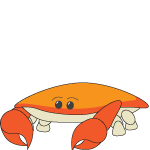
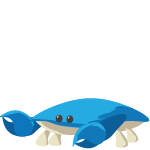
Art updates to monsters

diff --git a/Classes/Core Data/Initialization/DebugDataInitializer.m b/Classes/Core Data/Initialization/DebugDataInitializer.m
@@ -39,7 +39,7 @@
     [MonsterData insertMonsterWithType:@"Crab" barcode:@"No Barcode"];
     [MonsterData insertMonsterWithType:@"Small_Blob" barcode:@"No Barcode"];
     [MonsterData insertMonsterWithType:@"Viper" barcode:@"No Barcode"];
-    [MonsterData insertMonsterWithType:@"Bear_Cub" barcode:@"No Barcode"];
+    [MonsterData insertMonsterWithType:@"Bear" barcode:@"No Barcode"];
     [MonsterData insertMonsterWithType:@"Fox" barcode:@"No Barcode"];
     
     [[CoreDataHelper sharedInstance] save];
@@ -63,6 +63,11 @@
     [[MonsterData anyMonsterWithName:@"Fire Elemental"] assignAbilitiesForLevel:1];
     [[MonsterData anyMonsterWithName:@"Viper"] assignAbilitiesForLevel:1];
     [[MonsterData anyMonsterWithName:@"Hard Shell"] assignAbilitiesForLevel:1];
+    [[MonsterData anyMonsterWithName:@"Firebat"] assignAbilitiesForLevel:1];
+    [[MonsterData anyMonsterWithName:@"Imp"] assignAbilitiesForLevel:1];
+    [[MonsterData anyMonsterWithName:@"Bear"] assignAbilitiesForLevel:1];
+    [[MonsterData anyMonsterWithName:@"Marblu"] assignAbilitiesForLevel:1];
+    [[MonsterData anyMonsterWithName:@"Crab"] assignAbilitiesForLevel:1];
     
     [[CoreDataHelper sharedInstance] save];
 }
@@ -71,14 +76,14 @@
 {
     [PartyData removeAll];
     
-    NSArray *monsters = @[[MonsterData anyMonsterWithName:@"Viper"],
+    NSArray *monsters = @[[MonsterData anyMonsterWithName:@"Firebat"],
                           [MonsterData anyMonsterWithName:@"Fox"],
-                          [MonsterData anyMonsterWithName:@"Hard Shell"]];
+                          [MonsterData anyMonsterWithName:@"Imp"]];
     
     [PartyData insertPartyWithName:@"Player Party" monsters:monsters];
     
-    monsters = @[[MonsterData anyMonsterWithName:@"Ghost"],
-                 [MonsterData anyMonsterWithName:@"Scorpion"],
+    monsters = @[[MonsterData anyMonsterWithName:@"Bear"],
+                 [MonsterData anyMonsterWithName:@"Marblu"],
                  [MonsterData anyMonsterWithName:@"Crab"]];
     
     [PartyData insertPartyWithName:@"AI Party" monsters:monsters];

diff --git a/Classes/Core Data/Initialization/DefaultMonsterDataInitializer.m b/Classes/Core Data/Initialization/DefaultMonsterDataInitializer.m
@@ -272,8 +272,8 @@
     [monster setRoleTypePrimary:RoleTypeHeal];
     [monster setRoleTypeSecondary:RoleTypeBuff];
     
-    //Bear Cub
-    monster = [DefaultMonsterData insertDefaultMonsterAttributesForType:@"Bear_Cub"];
+    //Bear
+    monster = [DefaultMonsterData insertDefaultMonsterAttributesForType:@"Bear"];
     [monster setElementType:ElementTypeEarth];
     [monster setProbability:superRare];
     [monster setAttackType:AttackTypePhysical];
@@ -295,7 +295,7 @@
     [monster setWillpowerLevelMultiplier:1];
     
     [monster setIsTranslucent:NO];
-    [monster setScalePercent:0.75];
+    [monster setScalePercent:0.9];
     [monster setIsFlying:NO];
     [monster setRoleTypePrimary:RoleTypeTank];
     [monster setRoleTypeSecondary:RoleTypeDirectDamage];
@@ -435,7 +435,7 @@
     [monster setWillpowerLevelMultiplier:1];
     
     [monster setIsTranslucent:NO];
-    [monster setScalePercent:0.75];
+    [monster setScalePercent:0.6];
     [monster setIsFlying:NO];
     [monster setRoleTypePrimary:RoleTypeHeal];
     [monster setRoleTypeSecondary:RoleTypeDirectDamage];
@@ -523,8 +523,14 @@
     [monster setIsFlying:YES];
     [monster setRoleTypePrimary:RoleTypeHeal];
     [monster setRoleTypeSecondary:RoleTypeDamageOverTime];
+    NSError *error = nil;
+    NSManagedObjectContext *managedObjectContext = [[CoreDataHelper sharedInstance] managedObjectContext];
+    [managedObjectContext save:&error];
     
-    [[CoreDataHelper sharedInstance] save];
+    if (error != nil)
+    {
+        NSLog(@"Failed to initialize default monster data.");
+    }
 }
 
 @end
